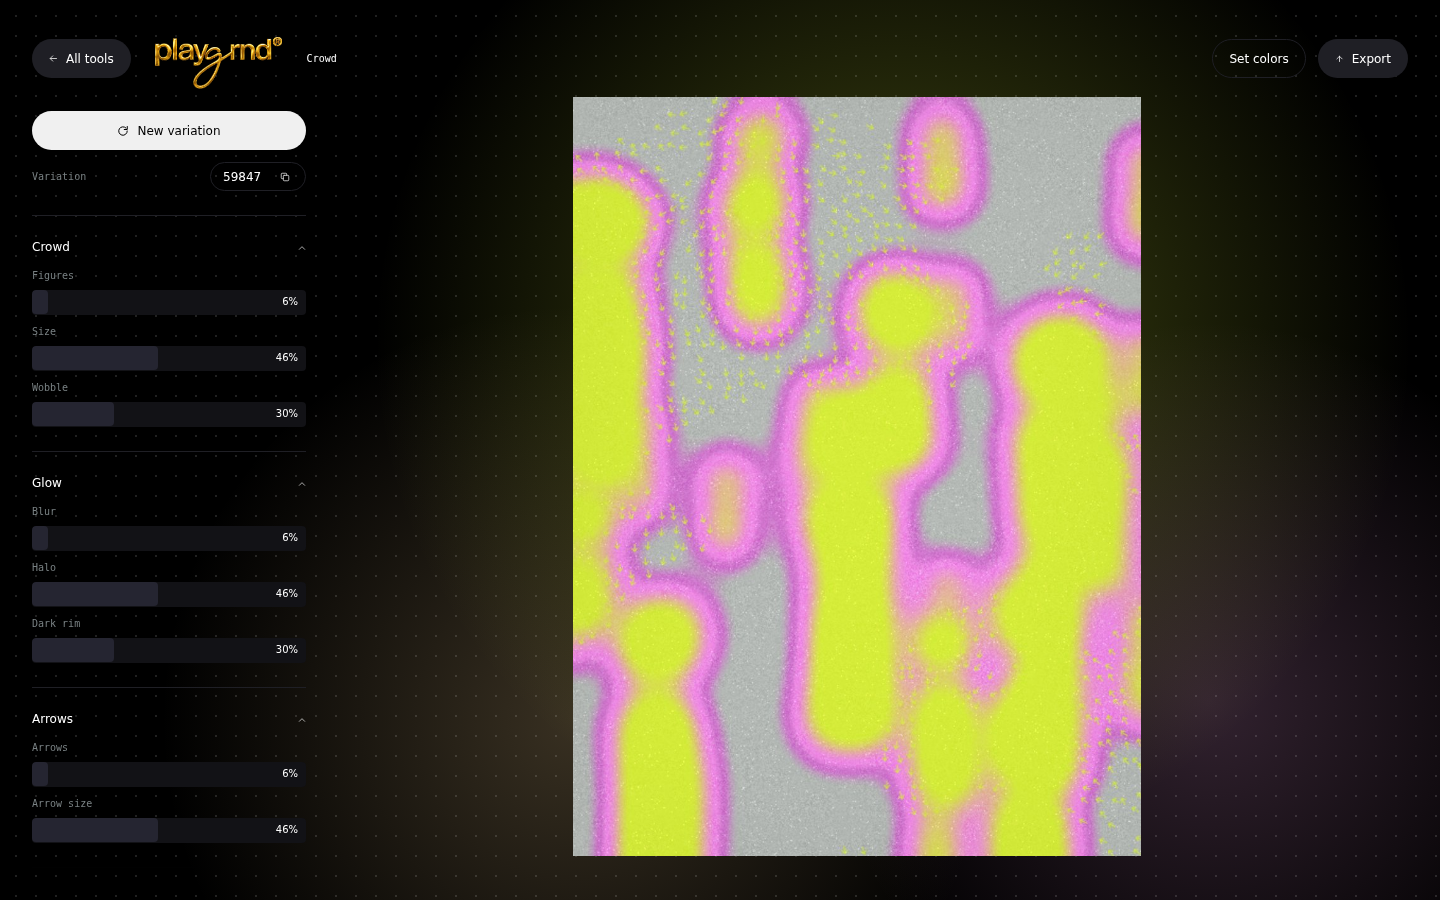
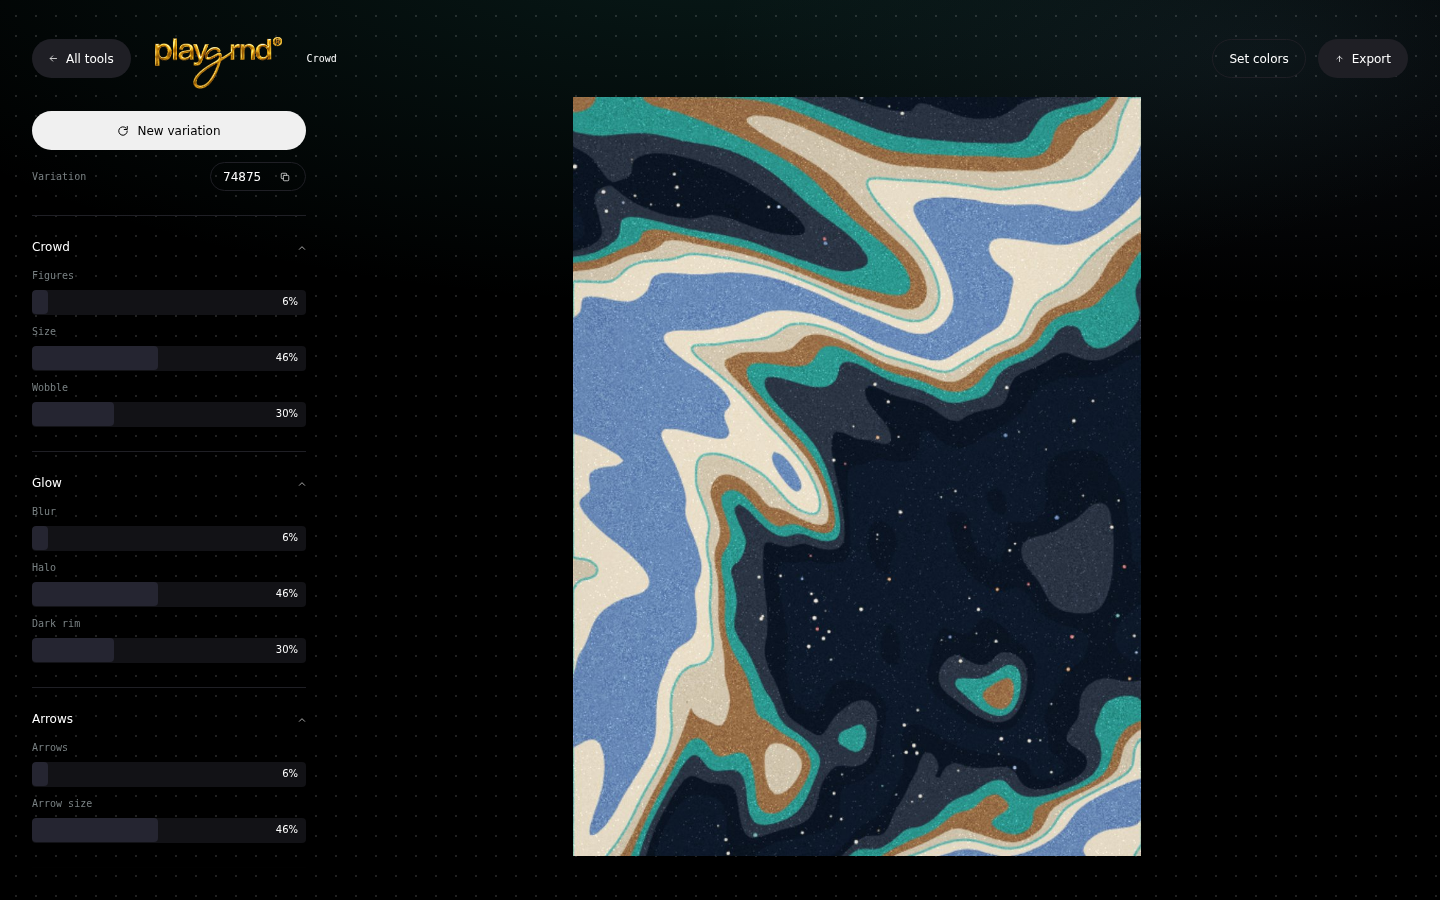
Design page: glow is a still wash from the top edge, no crossfade
Claude-Session: https://claude.ai/code/session_01Hb5jk9z6h4o1AzZNFzskh6

diff --git a/ui/design/index.html b/ui/design/index.html
@@ -10,8 +10,7 @@
 html,body{margin:0;background:var(--bg);color:var(--fg);font:12px/1.25 var(--sans);-webkit-font-smoothing:antialiased;min-height:100%}
 /* 1.5px dot grid on a 20px pitch */
 .glow{position:fixed;inset:0;z-index:0;pointer-events:none;background:var(--bg)}
-.glow .b{position:absolute;inset:0;background-repeat:no-repeat;opacity:0;transition:opacity 1.2s ease}
-.glow .b.on{opacity:1}
+.glow .b{position:absolute;inset:0;background-repeat:no-repeat}
 .glow::after{content:"";position:absolute;inset:0;background-image:radial-gradient(circle,rgba(255,255,255,.13) .75px,transparent .8px);background-size:20px 20px;background-position:6px 6px}
 .app{position:relative;z-index:1}
 button,input{font:inherit;color:inherit}
@@ -240,7 +239,7 @@ svg{flex:none;display:block}
   /* new variation + seed */
   var arts=["../art/crowd.jpg","../art/vein.jpg","../art/motley.jpg"],ai=0;
   /* ambient glow: sample the output on a tiny canvas, paint 3 soft blobs, crossfade */
-  var glow=$("#glow"),gl=[document.createElement("div"),document.createElement("div")],gi=0;gl.forEach(function(d){d.className="b";glow.appendChild(d);});
+  var glow=$("#glow"),gb=document.createElement("div");gb.className="b";glow.appendChild(gb);
   function sampleArt(img){try{var c=document.createElement("canvas"),n=12;c.width=n;c.height=n;var x=c.getContext("2d",{willReadFrequently:true});x.drawImage(img,0,0,n,n);var d=x.getImageData(0,0,n,n).data,px=[];
       for(var i=0;i<d.length;i+=4){var r=d[i],g=d[i+1],b=d[i+2],mx=Math.max(r,g,b),mn=Math.min(r,g,b);px.push({r:r,g:g,b:b,s:mx?(mx-mn)/mx:0,v:mx/255});}
       px.sort(function(a,b){return (b.s*b.v)-(a.s*a.v);});var out=[];
@@ -248,9 +247,8 @@ svg{flex:none;display:block}
       while(out.length<3)out.push(px[out.length]||{r:60,g:60,b:80});return out;}catch(e){return null;}}
   function paintGlow(){var img=$("#art");if(!img.complete||!img.naturalWidth)return;var c=sampleArt(img);if(!c)return;
     var f=function(q,a){return "rgba("+q.r+","+q.g+","+q.b+","+a+")"};
-    var next=gl[gi=1-gi];
-    next.style.backgroundImage="radial-gradient(60vmax 60vmax at 62% 38%,"+f(c[0],.32)+",transparent 60%),radial-gradient(48vmax 48vmax at 40% 80%,"+f(c[1],.26)+",transparent 60%),radial-gradient(44vmax 44vmax at 84% 78%,"+f(c[2],.24)+",transparent 60%)";
-    gl.forEach(function(d){d.classList.toggle("on",d===next);});}
+    /* quiet wash from the top edge, like a screen lit from above; no animation */
+    gb.style.backgroundImage="radial-gradient(95vw 60vh at 50% -8%,"+f(c[0],.20)+",transparent 70%),radial-gradient(55vw 40vh at 88% 6%,"+f(c[1],.10)+",transparent 70%)";}
   $("#art").addEventListener("load",paintGlow);paintGlow();
   function showSeed(n){ai=n%arts.length;$("#art").src=arts[ai];}
   document.querySelector("[data-new]").addEventListener("click",function(){var n=Math.floor(Math.random()*90000)+10000;$("#seedNum").value=n;showSeed(n);});
